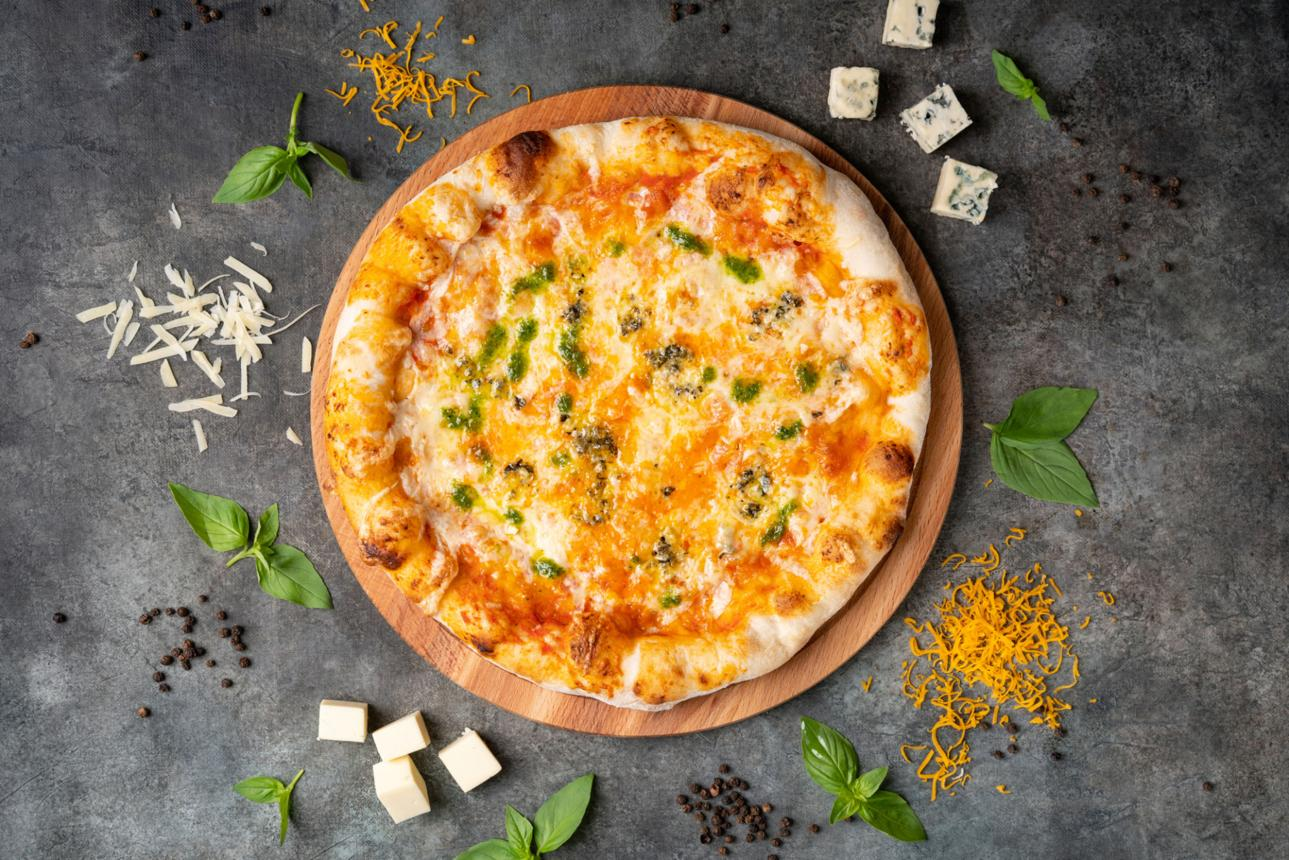
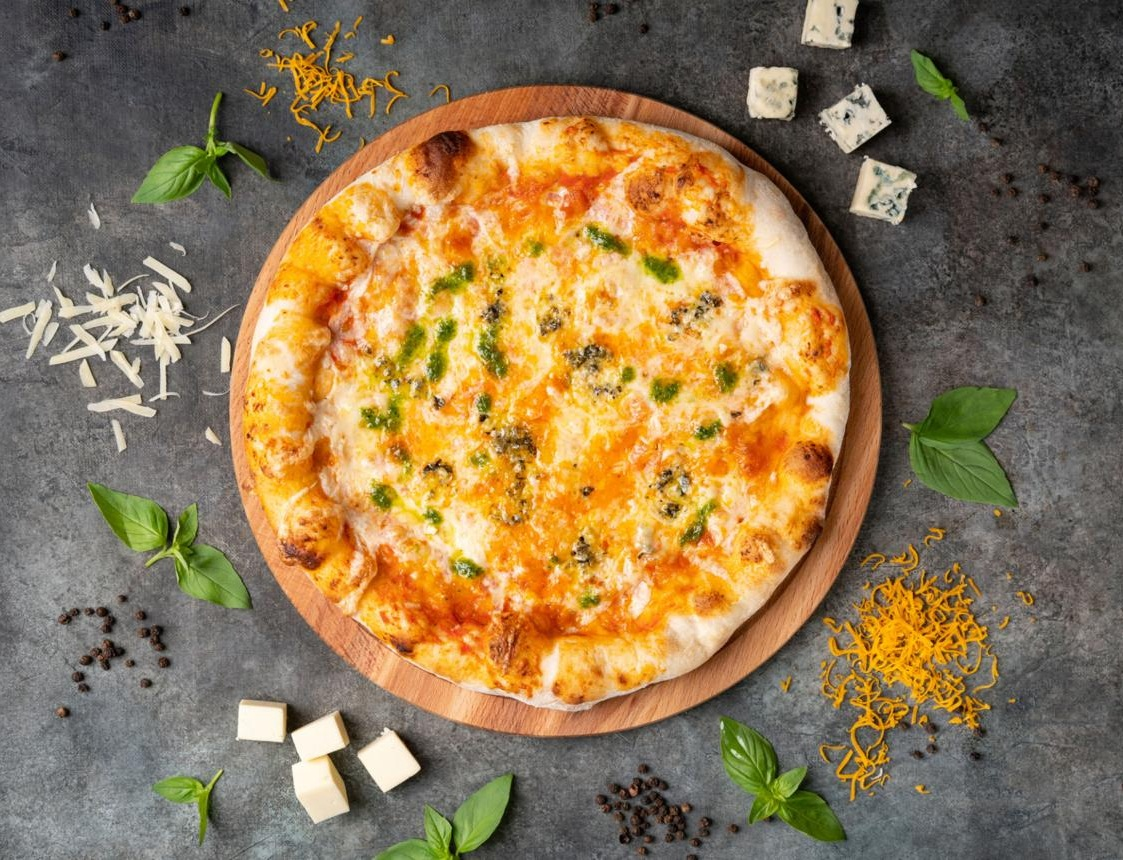
style: change pizza images

diff --git a/src/entities/product/data/products.ts b/src/entities/product/data/products.ts
@@ -9,7 +9,7 @@ export const products: Product[] = [
     weight: "от 450 г",
     category: "classic",
     badge: "ХИТ",
-    image: "/images/pepperoni.webp",
+    image: "/images/pepperoni.jpg",
   },
   {
     id: "four-cheese",
@@ -19,7 +19,7 @@ export const products: Product[] = [
     weight: "от 440 г",
     category: "vegetarian",
     badge: "НЕЖНАЯ",
-    image: "/images/four-cheese.webp",
+    image: "/images/four-cheeze.jpg",
   },
   {
     id: "margarita",
@@ -28,7 +28,7 @@ export const products: Product[] = [
     price: 490,
     weight: "от 420 г",
     category: "classic",
-    image: "/images/margherita.webp",
+    image: "/images/margherita.jpg",
   },
   {
     id: "bbq",
@@ -38,6 +38,6 @@ export const products: Product[] = [
     weight: "от 480 г",
     category: "signature",
     badge: "НОВИНКА",
-    image: "/images/bbq.webp",
+    image: "/images/bbq.jpg",
   },
 ];

diff --git a/src/widgets/hero/ui/hero.tsx b/src/widgets/hero/ui/hero.tsx
@@ -48,7 +48,7 @@ export function Hero() {
           <div className="absolute inset-[23%] rounded-full bg-accent/15 blur-3xl" />
           <div className="absolute inset-0 rotate-[-12deg]">
             <Image
-              src="/images/pizza-hero.webp"
+              src="/images/pizza-hero.jpg"
               alt="Аппетитная пицца с сыром и свежими ингредиентами"
               fill
               priority
